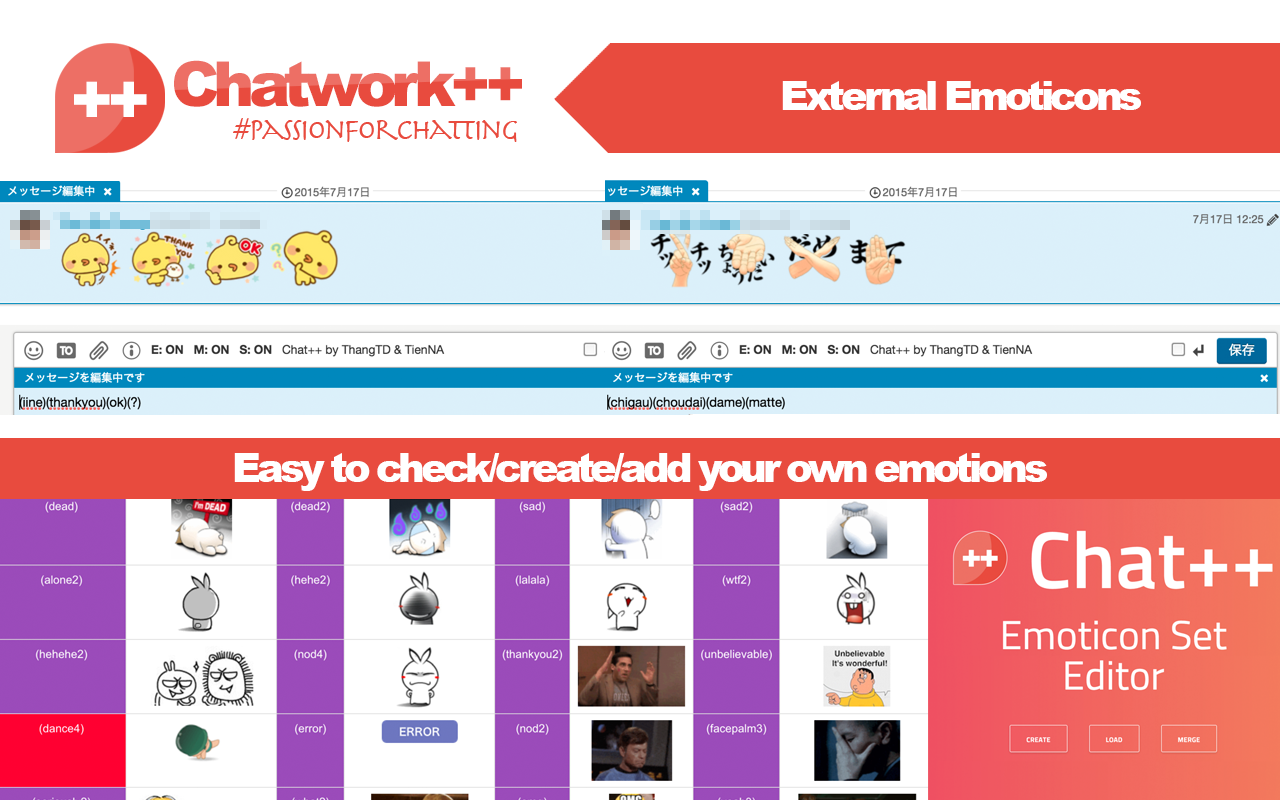
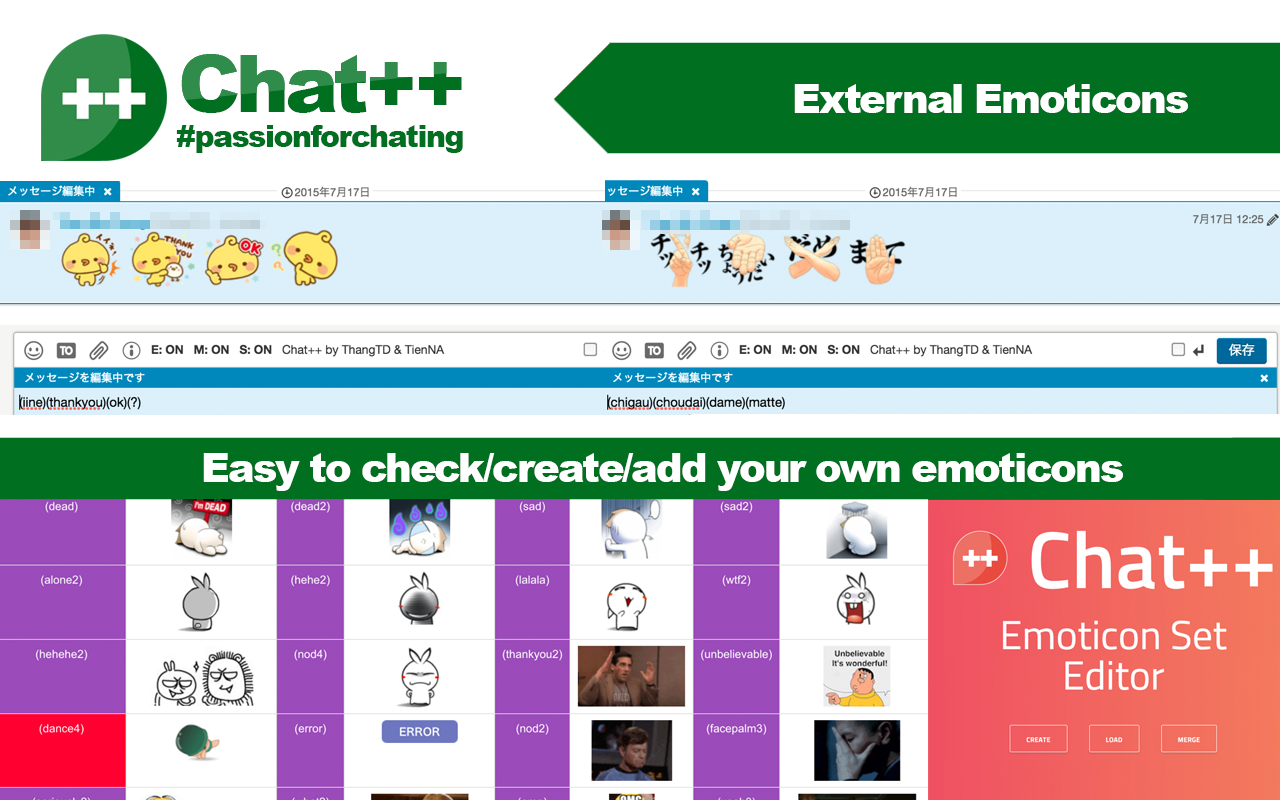
Update version 5 images

Changed region(s): [[0.4375, 0.0312, 1.0, 0.2188], [0.0, 0.5312, 1.0, 0.625], [0.0312, 0.0312, 0.4062, 0.2188]]

diff --git a/README.md b/README.md
@@ -1,4 +1,4 @@
-![chatpp](./build/img/icon32.png) Chat++ 5.0.0 [![Build Status](https://travis-ci.org/wataridori/chatpp.svg?branch=master)](https://travis-ci.org/wataridori/chatpp)
+![chatpp](./build/img/icon32.png) Chat++ 5.0.0 (Coming Soon) [![Build Status](https://travis-ci.org/wataridori/chatpp.svg?branch=master)](https://travis-ci.org/wataridori/chatpp)
 =================
 
 Chat++ is an all-in-one Chatwork Enhancement Toolkit.
